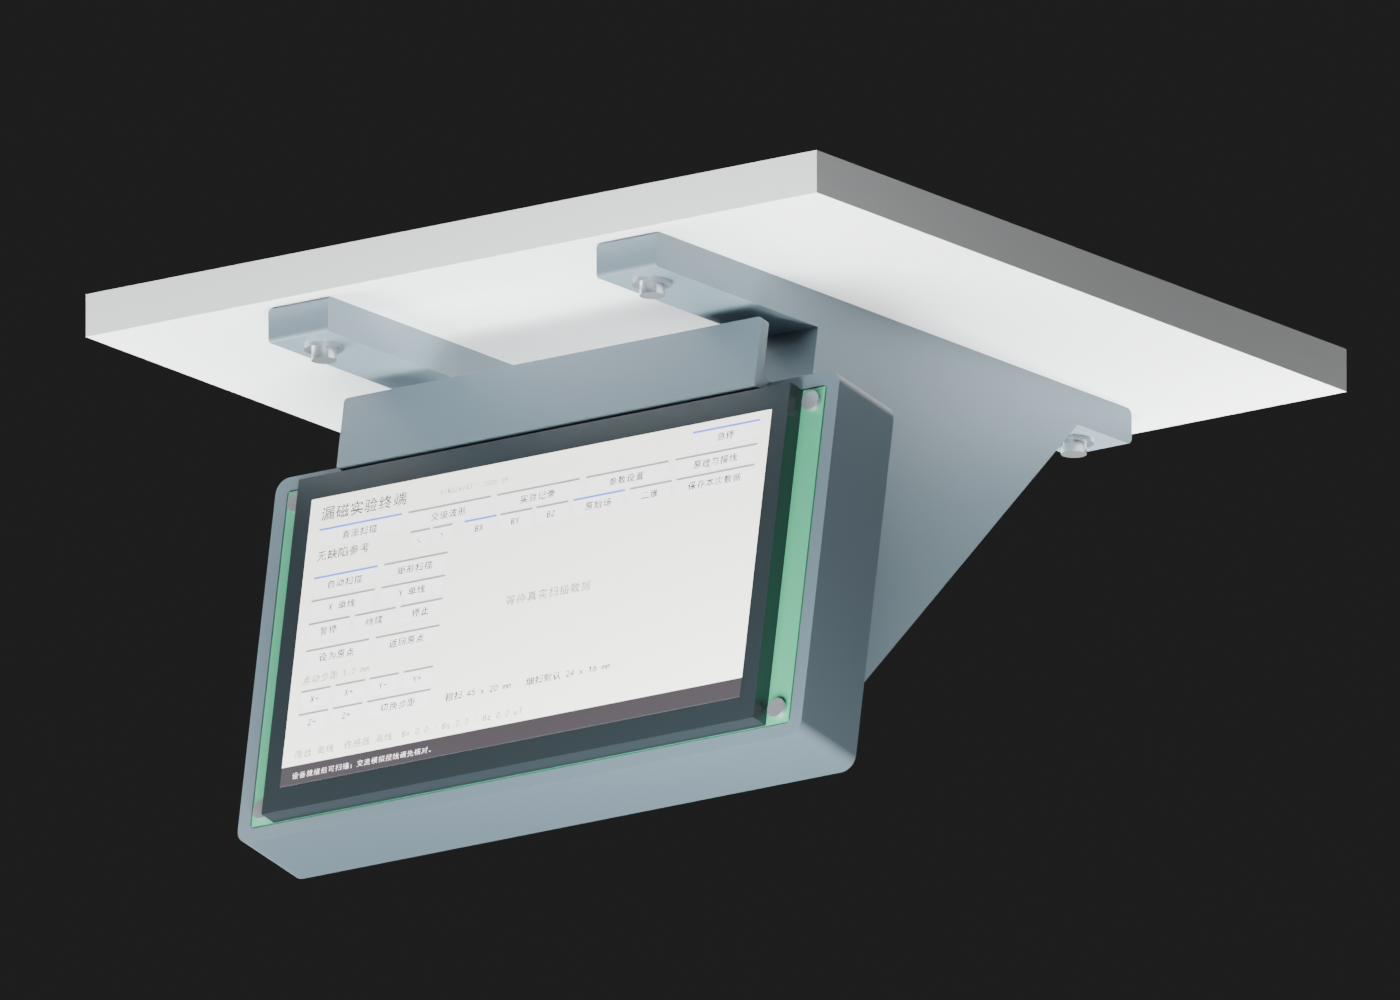
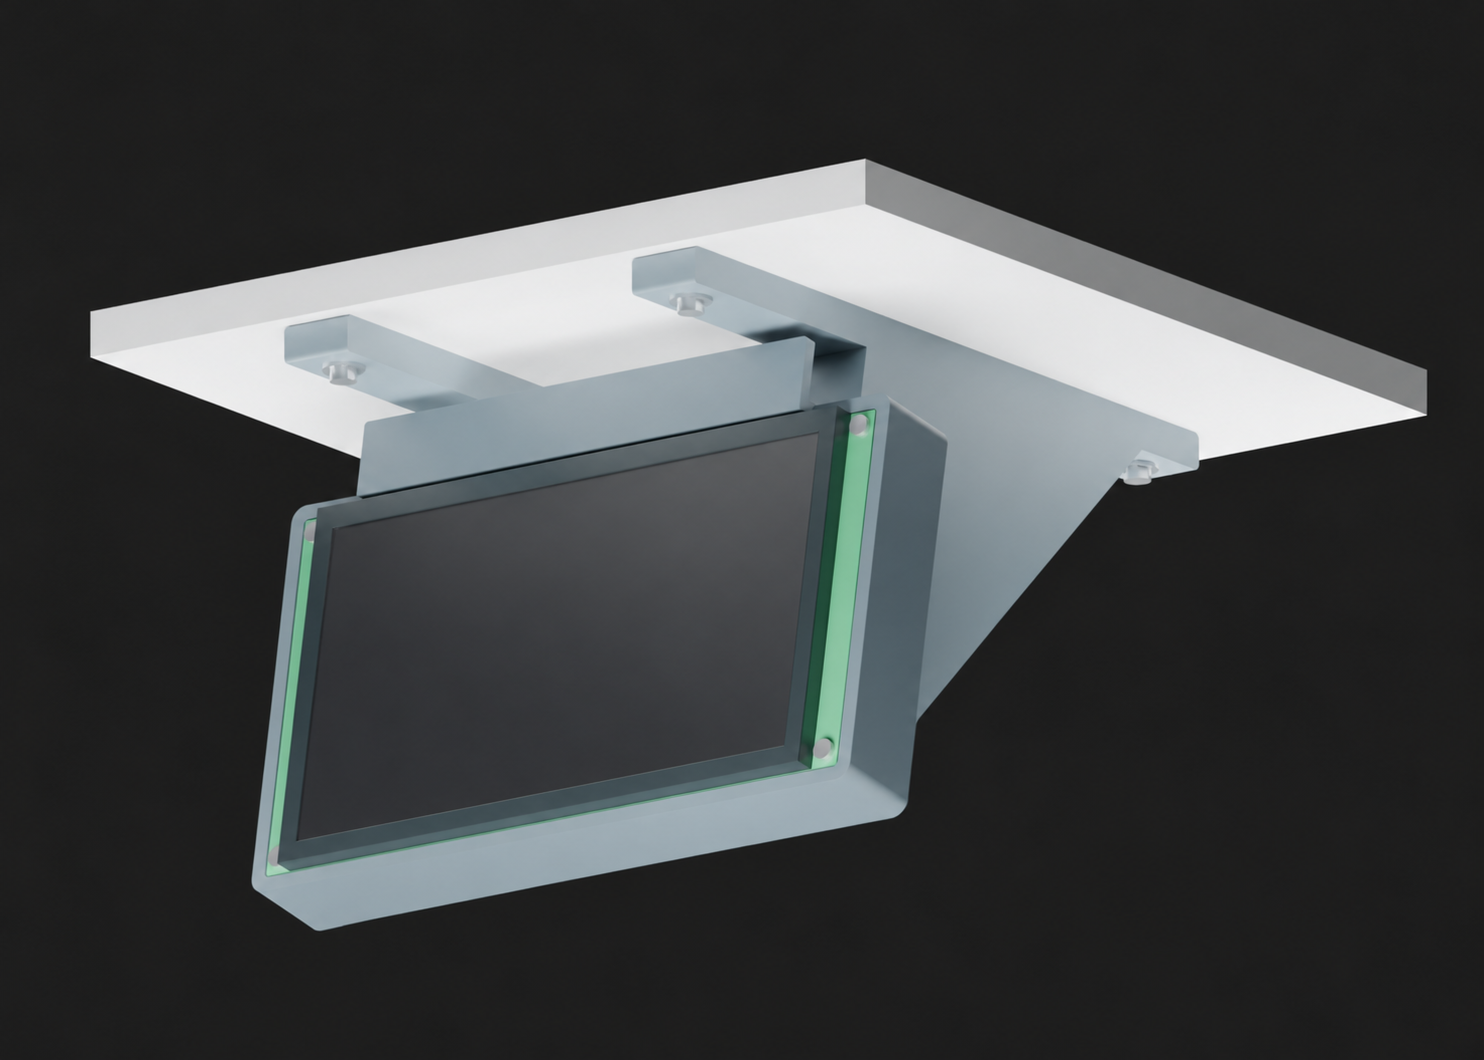
Clear display content from screen bracket preview

Changed region(s): [[0.1843, 0.403, 0.5529, 0.806], [0.3686, 0.806, 0.43, 0.837], [0.2764, 0.837, 0.3379, 0.868]]

diff --git a/README.md b/README.md
@@ -6,7 +6,7 @@
 
 ![完整屏幕吊装支架：屏幕保护壳、标牌和吊装结构](docs/screen-bracket-preview.png)
 
-上图为原项目完整屏幕吊装支架的 Blender 装配预览。屏幕、PCB、紧固件和上方安装板作为装配参照；图中完整支架用于展示工作流成果，通用工艺试块用于运行与验证脚本。
+上图基于原项目完整屏幕吊装支架的 Blender 装配预览，屏幕显示内容已清空。屏幕、PCB、紧固件和上方安装板作为装配参照；图中完整支架用于展示工作流成果，通用工艺试块用于运行与验证脚本。
 
 ## 安装
 
